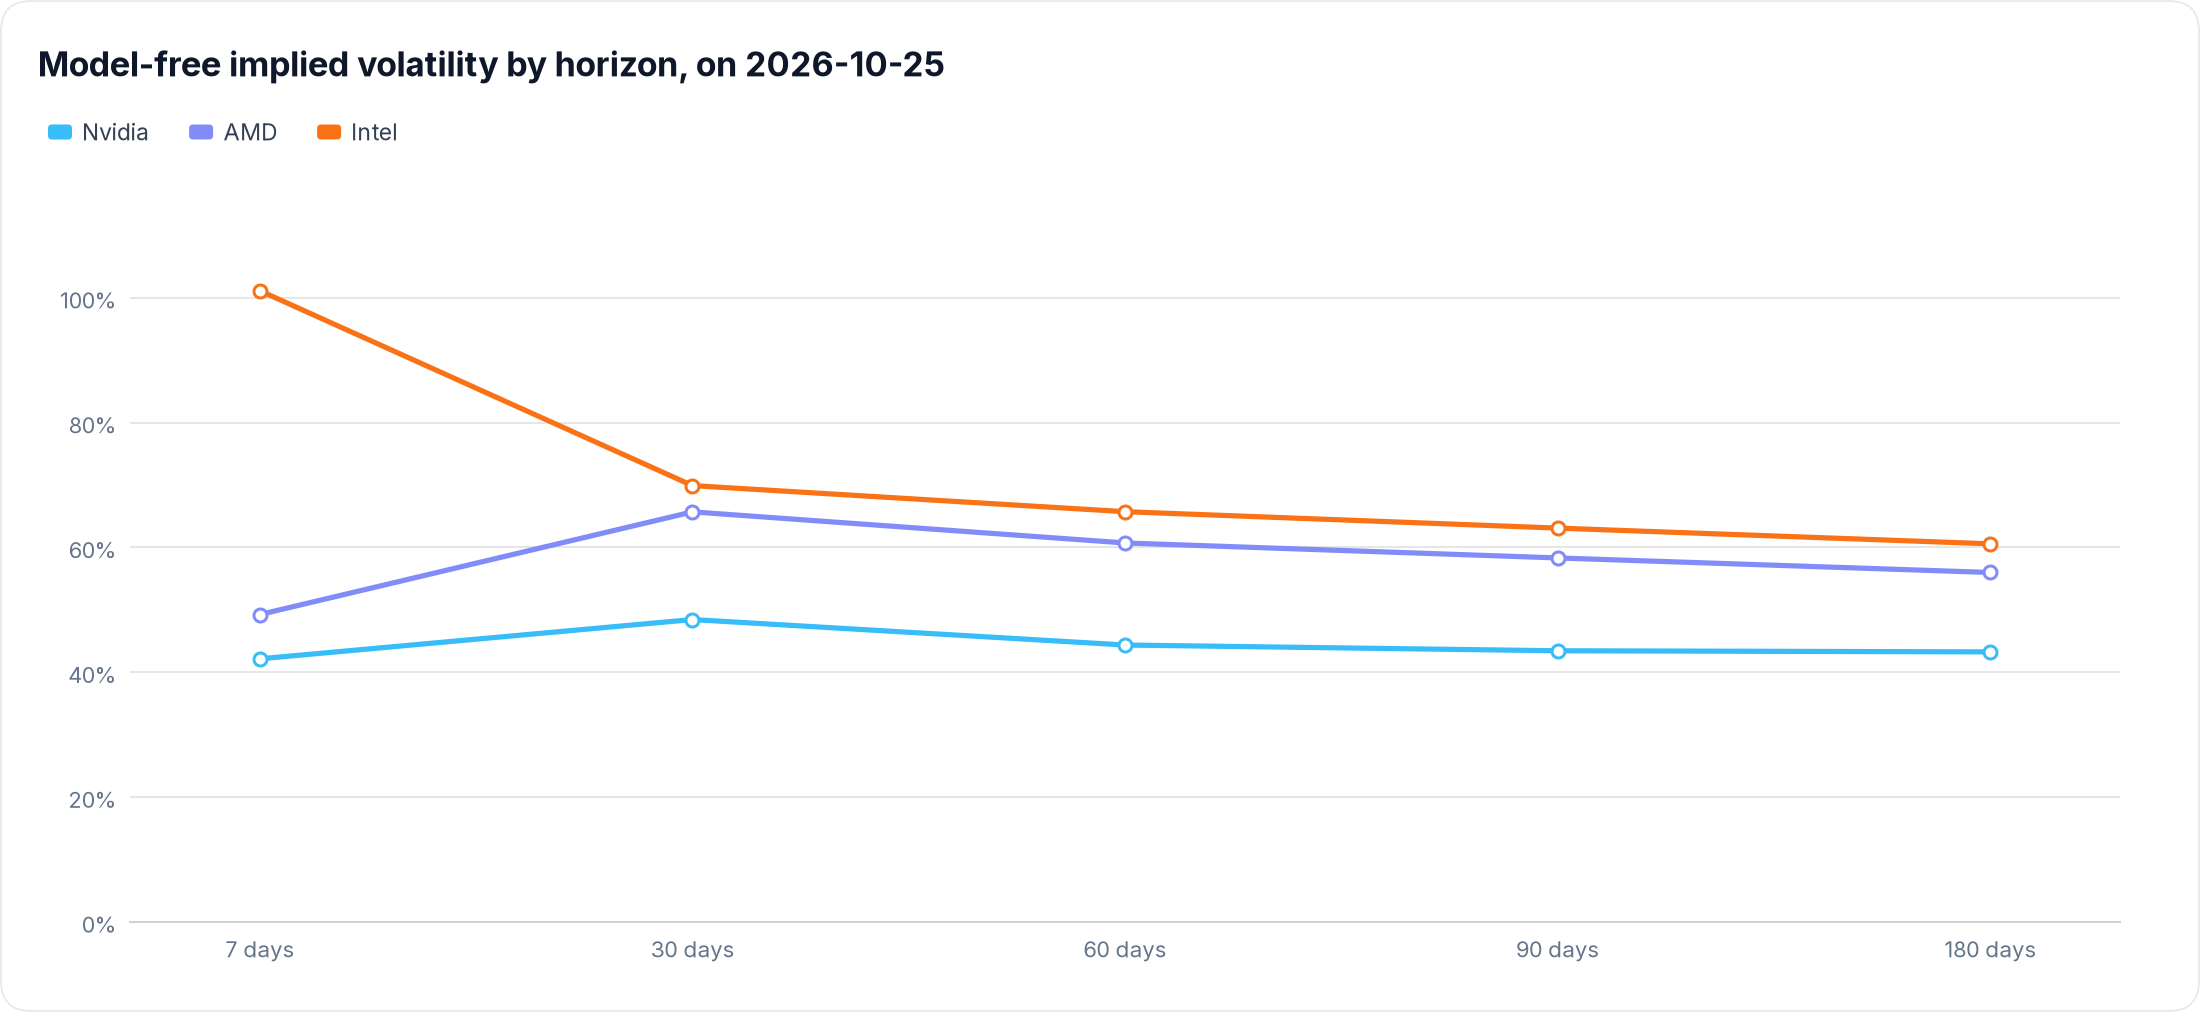
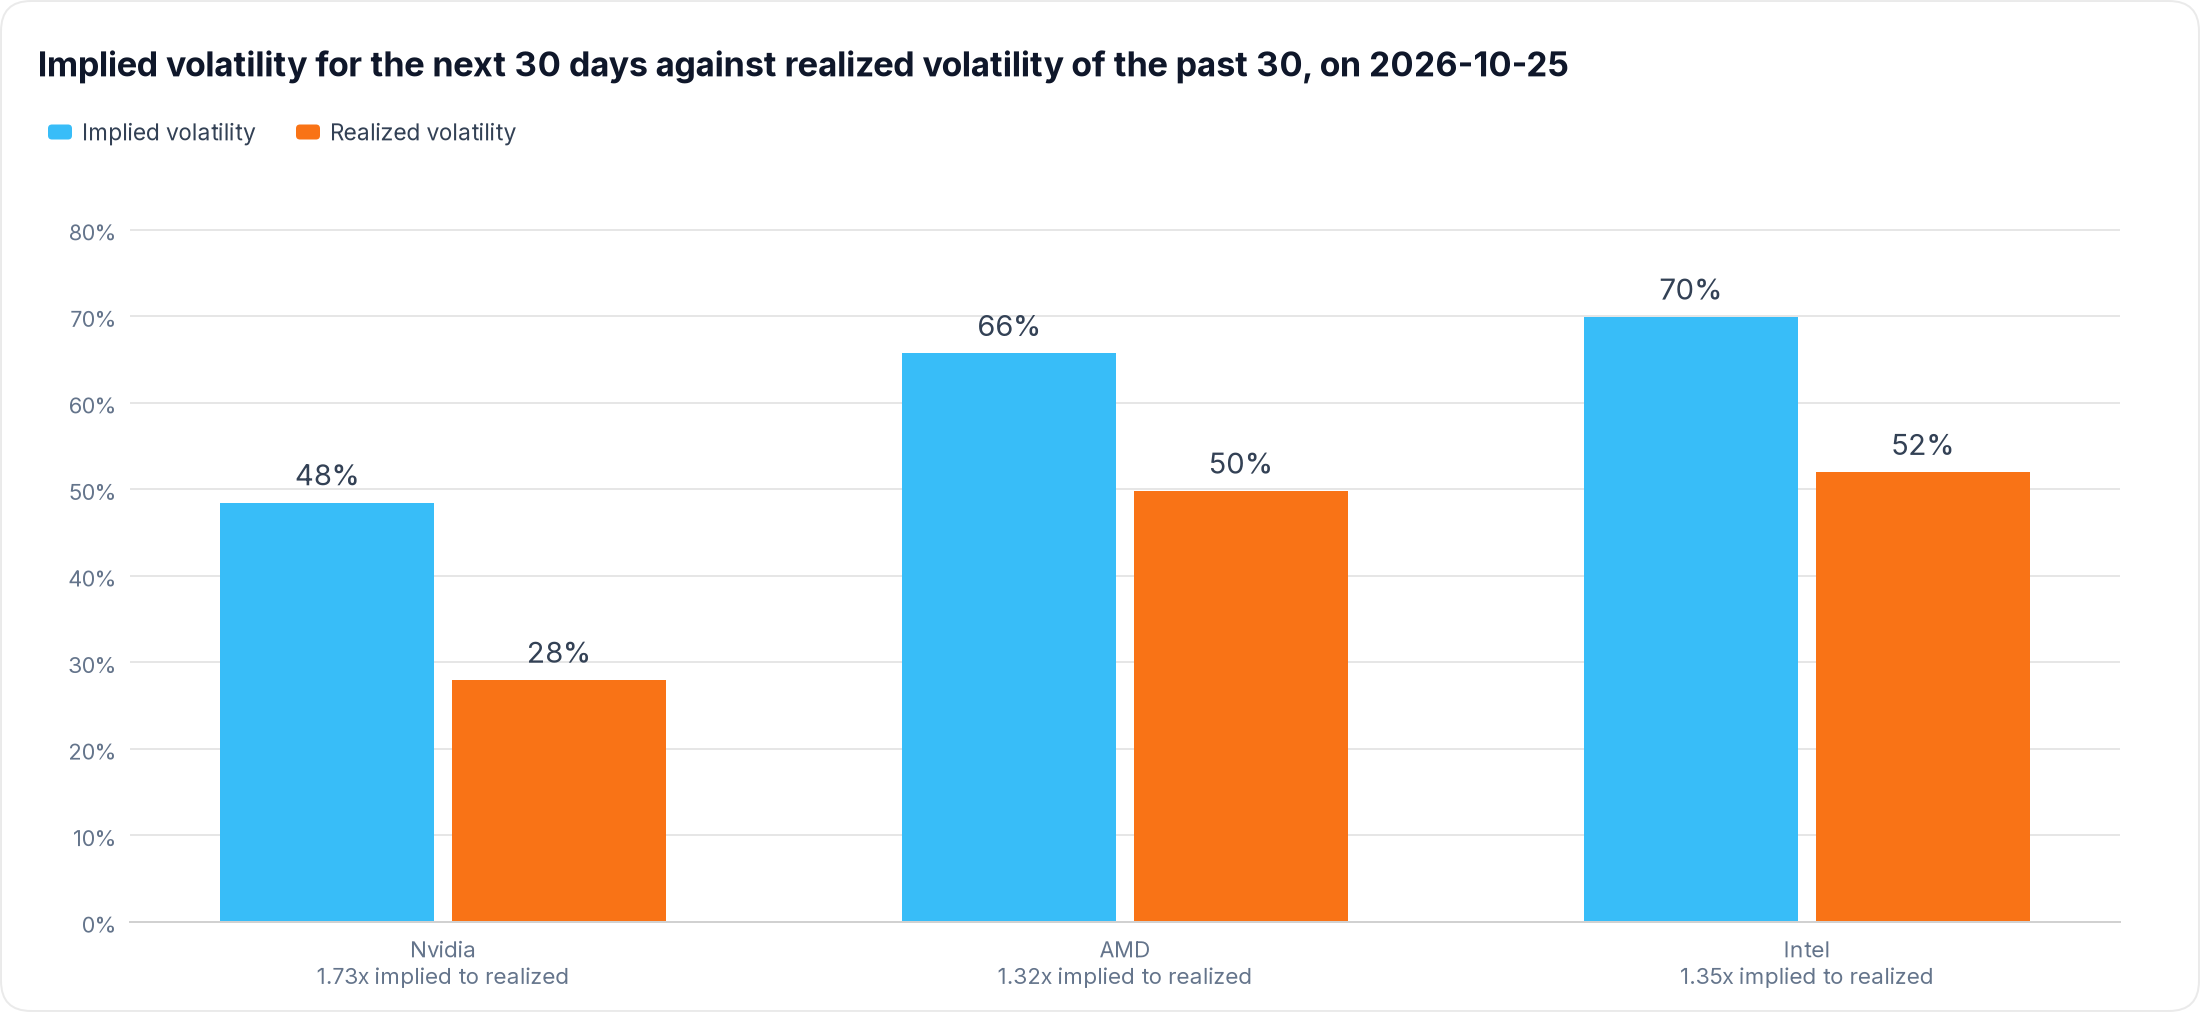
Show the volatility risk premium in the option chapter
The option chapter compares the implied volatility for the next 30 days with the realized volatility of the past 30: the options priced far more turbulence than the shares had shown, Nvidia's 1.7 times as much.

diff --git a/README.md b/README.md
@@ -292,39 +292,26 @@ Together the two modules cover 70+ metrics, such as [Value at Risk](https://www.
 The past shows how much risk came with the returns; the option market puts a price on the risk ahead. The [options](https://www.jeroenbouma.com/projects/financetoolkit/docs/options) module prices options with Black-Scholes, the Binomial Model and others, calculates the Greeks up to the third order and reads the live option chains: the put-call ratio, max pain, dealer gamma exposure, the volatility skew and term structure and the implied move. As the chains are those of today, the Toolkit below runs up to today, and the numbers are those of the day this README was last updated:
 
 ```python
-import pandas as pd
-
 # Initialize the Toolkit up to today, as the option chains are live
 companies_today = Toolkit(["NVDA", "AMD", "INTC"], api_key="FINANCIAL_MODELING_PREP_KEY")
 
-# The model-free implied volatility, the method behind the VIX, at fixed horizons
-implied_volatility = pd.concat(
-    {
-        days: companies_today.options.get_model_free_implied_volatility(days=days)
-        for days in [7, 30, 60, 90, 180]
-    },
-    names=["Days"],
-)
-
-# Show the results for Nvidia
-implied_volatility.xs("NVDA", level=1)
+# The volatility the options imply for the next 30 days against that of the past 30 days
+companies_today.options.get_volatility_risk_premium(days=30)
 ```
 
-As the companies list different expirations, the model-free implied volatility reads the expected variance from all out-of-the-money options of the two expirations around each horizon and interpolates between them, so all three are compared over exactly the same number of days. For example, Nvidia's implied volatility for each horizon is shown below.
+The implied volatility is model-free, read with the method behind the VIX from all out-of-the-money options around the horizon, and the realized volatility is that of the daily returns over the same number of days. For example, both are shown below for each company.
 
-|   Days | Near-Term Expiration   | Next-Term Expiration   |   Near-Term Volatility |   Next-Term Volatility |   Forward Price |   Model-Free Implied Volatility |
-|-------:|:-----------------------|:-----------------------|-----------------------:|-----------------------:|----------------:|--------------------------------:|
-|      7 | 2026-11-02             | 2026-11-04             |                 0.4282 |                 0.4372 |         211.274 |                          0.4216 |
-|     30 | 2026-11-20             | 2026-11-27             |                 0.5007 |                 0.4746 |         211.697 |                          0.4845 |
-|     60 | 2026-12-18             | 2027-01-15             |                 0.4471 |                 0.4356 |         212.126 |                          0.4437 |
-|     90 | 2027-01-15             | 2027-02-19             |                 0.4356 |                 0.4316 |         212.877 |                          0.4345 |
-|    180 | 2027-04-16             | 2027-05-21             |                 0.4349 |                 0.4253 |         215.128 |                          0.4327 |
+|      |   Implied Volatility |   Realized Volatility |   Volatility Risk Premium |   Variance Risk Premium |   Implied to Realized Ratio |
+|:-----|---------------------:|----------------------:|--------------------------:|------------------------:|----------------------------:|
+| NVDA |               0.4845 |                0.2795 |                    0.2049 |                  0.1566 |                      1.7331 |
+| AMD  |               0.657  |                0.498  |                    0.159  |                  0.1836 |                      1.3192 |
+| INTC |               0.6991 |                0.5196 |                    0.1795 |                  0.2188 |                      1.3456 |
 
-And below the implied volatility of each company is plotted for every horizon.
+Options usually price more risk than follows, as their sellers want to be paid for taking it on, and here they priced far more turbulence for the coming month than the past month delivered: Nvidia's options implied 1.7 times the volatility its shares showed. And below the implied and realized volatility of each company are plotted next to each other.
 
 <picture>
   <source media="(prefers-color-scheme: dark)" srcset="https://raw.githubusercontent.com/JerBouma/FinanceToolkit/main/assets/readme/options-market-dark.png">
-  <img alt="Model-Free Implied Volatility" src="https://raw.githubusercontent.com/JerBouma/FinanceToolkit/main/assets/readme/options-market-light.png">
+  <img alt="Implied and Realized Volatility" src="https://raw.githubusercontent.com/JerBouma/FinanceToolkit/main/assets/readme/options-market-light.png">
 </picture>
 
 ## The Economic Environment
